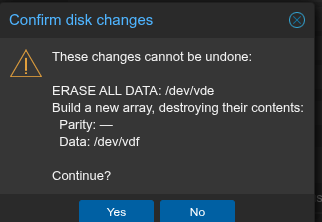
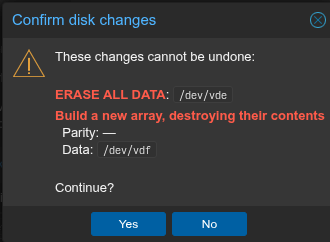
pve-plugin: dress the disk manager in @svnbjrn/design's semantic tokens
The design system's components are Svelte and cannot mount inside
Proxmox's ExtJS dialog, but its token layer travels: the semantic slice
of the generated colors.css (success / error / warning / accent, muted
and strong text, one chip surface) is carried verbatim into a scoped
stylesheet the GUI script injects once.

Scoping is the point. Everything lives under .nonraid-sv, so no token or
rule can reach PVE's own widgets; the parchment surface family is
deliberately left behind, because inside PVE's chrome it would fight the
host theme while the deep semantic colors read correctly on both. Theme
choice probes the page's actual background luminance rather than
trusting a class name - PVE reloads on theme switch, so one probe at
load time is enough.

What it buys, in the operator's terms:

  - device names are mono chips (Iosevka first, platform mono fallback -
    no fonts are embedded into PVE)
  - 'free' is success-green; a held disk is warning-amber; in-use is
    muted
  - a staged action tints its whole row: wipe in error-red, assign in
    accent-teal, unmount in warning-amber - the row answers "what
    happens to this disk when I press Add" at a glance
  - the confirmation's ERASE ALL DATA line carries the error token and
    the disks it names are chips, so the last thing read before erasing
    a disk is also the most legible

Token values are copied from the design system's GENERATED output with a
do-not-hand-edit note pointing back at the DTCG source. README
[…]

diff --git a/pve-plugin/js/pve-nonraid-storage.js b/pve-plugin/js/pve-nonraid-storage.js
@@ -122,6 +122,82 @@
             });
         };
 
+        // ---- @svnbjrn/design tokens, scoped ------------------------------
+        //
+        // Values are copied verbatim from the design system's GENERATED
+        // dist/tokens/colors.css (do not hand-edit them here either - edit the
+        // DTCG source there and re-copy). Only the semantic slice is carried:
+        // inside Proxmox's ExtJS theme the parchment surface family would
+        // fight the host chrome, but the semantic colors (success / error /
+        // warning / accent, muted text) are exactly the vocabulary the disk
+        // funnel needs. Everything is scoped under .nonraid-sv so no token or
+        // rule can leak into PVE's own widgets, and the theme is chosen by
+        // measuring the page rather than trusting a class name: PVE reloads
+        // on theme switch, so a one-shot probe at load time is enough.
+        var injectDesignTokens = function () {
+            if (document.getElementById('nonraid-sv-tokens')) {
+                return;
+            }
+            var dark = true;
+            try {
+                var bg = getComputedStyle(document.body).backgroundColor;
+                var m = bg && bg.match(/\d+/g);
+                if (m && m.length >= 3) {
+                    // Relative luminance, roughly; PVE light is near-white.
+                    dark = (0.299 * m[0] + 0.587 * m[1] + 0.114 * m[2]) < 128;
+                }
+            } catch (ignore) { /* default to dark-first, like the system */ }
+
+            var t = dark ? {
+                success: '#74a55e', error: '#ff5b48', warning: '#ffa500',
+                accent: '#4ec9b0', accent2: '#e06c75',
+                muted: '#9a9a9a', strong: '#f5f5f5',
+                chipBg: '#2d2d2d', chipBorder: '#3c3c3c',
+            } : {
+                success: '#086326', error: '#9d2b20', warning: '#7d4800',
+                accent: '#1f6659', accent2: '#8d3740',
+                muted: '#605b47', strong: '#2a2617',
+                chipBg: '#ece1b8', chipBorder: '#c7ba85',
+            };
+
+            var css = [
+                '.nonraid-sv {',
+                '  --sv-success:' + t.success + '; --sv-error:' + t.error + ';',
+                '  --sv-warning:' + t.warning + '; --sv-accent:' + t.accent + ';',
+                '  --sv-accent-2:' + t.accent2 + '; --sv-text-muted:' + t.muted + ';',
+                '  --sv-text-strong:' + t.strong + '; --sv-surface-3:' + t.chipBg + ';',
+                '  --sv-border:' + t.chipBorder + ';',
+                '}',
+                // Device names: chips in the system's mono voice. Iosevka is
+                // the design system font; fall back through the platform mono
+                // stack rather than embedding fonts into PVE.
+                '.nonraid-sv .nonraid-dev {',
+                '  font-family: Iosevka, ui-monospace, "Cascadia Mono", Menlo, monospace;',
+                '  font-size: 12px; padding: 0 5px; border-radius: 3px;',
+                '  background: var(--sv-surface-3); border: 1px solid var(--sv-border);',
+                '  color: var(--sv-text-strong);',
+                '}',
+                '.nonraid-sv .nonraid-status-free   { color: var(--sv-success); font-weight: 600; }',
+                '.nonraid-sv .nonraid-status-held   { color: var(--sv-warning); }',
+                '.nonraid-sv .nonraid-status-used   { color: var(--sv-text-muted); }',
+                // Staged-action row tints: the row answers "what will happen
+                // to this disk when I press Add" at a glance. Wipe outranks
+                // assign outranks unmount, matching the funnel order.
+                '.nonraid-sv .nonraid-row-wipe    .x-grid-cell { background: color-mix(in srgb, ' + t.error + ' 14%, transparent) !important; }',
+                '.nonraid-sv .nonraid-row-assign  .x-grid-cell { background: color-mix(in srgb, ' + t.accent + ' 14%, transparent) !important; }',
+                '.nonraid-sv .nonraid-row-unmount .x-grid-cell { background: color-mix(in srgb, ' + t.warning + ' 12%, transparent) !important; }',
+                // Confirmation dialog: the danger line carries the error
+                // token; device chips reuse the mono voice.
+                '.nonraid-sv .nonraid-confirm-danger { color: var(--sv-error); font-weight: 700; }',
+                '.nonraid-sv .nonraid-confirm-section { margin: 4px 0; }',
+            ].join('\n');
+
+            var el = document.createElement('style');
+            el.id = 'nonraid-sv-tokens';
+            el.appendChild(document.createTextNode(css));
+            document.head.appendChild(el);
+        };
+
         // Why a disk cannot be unmounted / wiped / assigned, from what
         // /nodes/{node}/disks/list reports. 'used' comes from PVE's own
         // vocabulary: 'mounted', 'LVM', 'ZFS', 'Device Mapper', 'partitions',
@@ -423,20 +499,45 @@
                     ],
                 });
 
+                injectDesignTokens();
+
                 me.columnB = [
                     {
                         xtype: 'grid',
                         name: 'nonraid-disk-manager',
+                        cls: 'nonraid-sv',
                         title: gettext('Disks on the selected node'),
                         store: me.diskStore,
                         height: 230,
                         emptyText: gettext('Select a single node to list its disks'),
-                        viewConfig: { markDirty: false, stripeRows: true },
+                        viewConfig: {
+                            markDirty: false,
+                            stripeRows: true,
+                            // The row tint answers "what happens to this disk
+                            // on Add" at a glance; record.set() refreshes the
+                            // row, so this re-evaluates as actions are staged.
+                            getRowClass: function (rec) {
+                                if (rec.get('doWipe')) {
+                                    return 'nonraid-row-wipe';
+                                }
+                                if (rec.get('role')) {
+                                    return 'nonraid-row-assign';
+                                }
+                                if (rec.get('doUnmount')) {
+                                    return 'nonraid-row-unmount';
+                                }
+                                return '';
+                            },
+                        },
                         columns: [
                             {
                                 text: gettext('Device'),
                                 dataIndex: 'devpath',
                                 flex: 2,
+                                renderer: function (v) {
+                                    return '<span class="nonraid-dev">'
+                                        + Ext.String.htmlEncode(v || '') + '</span>';
+                                },
                             },
                             {
                                 text: gettext('Size'),
@@ -451,6 +552,17 @@
                                 text: gettext('Status'),
                                 dataIndex: 'statusText',
                                 flex: 2,
+                                renderer: function (v, meta, rec) {
+                                    var cls = 'nonraid-status-used';
+                                    if (!rec.get('used') && !(rec.get('osdid') >= 0)) {
+                                        cls = 'nonraid-status-free';
+                                    } else if (rec.get('unmountWhy')
+                                        && /Held by/.test(rec.get('unmountWhy'))) {
+                                        cls = 'nonraid-status-held';
+                                    }
+                                    return '<span class="' + cls + '">'
+                                        + Ext.String.htmlEncode(v || '') + '</span>';
+                                },
                             },
                             {
                                 xtype: 'widgetcolumn',
@@ -629,28 +741,37 @@
             // reads before erasing a disk, and a name that renders as markup
             // is a name they cannot check.
             var devs = function (list) {
-                return Ext.String.htmlEncode(list.join(', '));
+                return list.map(function (d) {
+                    return '<span class="nonraid-dev">' + Ext.String.htmlEncode(d) + '</span>';
+                }).join(' ');
+            };
+            var section = function (html) {
+                return '<div class="nonraid-confirm-section">' + html + '</div>';
             };
             var lines = [];
             if (s.unmount.length) {
-                lines.push(gettext('Unmount') + ': ' + devs(s.unmount));
+                lines.push(section(gettext('Unmount') + ': ' + devs(s.unmount)));
             }
             if (s.wipe.length) {
-                lines.push('<b>' + gettext('ERASE ALL DATA') + '</b>: ' + devs(s.wipe));
+                lines.push(section('<span class="nonraid-confirm-danger">'
+                    + gettext('ERASE ALL DATA') + '</span>: ' + devs(s.wipe)));
             }
             if (s.parity.length || s.data.length) {
-                lines.push('<b>' + gettext('Build a new array, destroying their contents')
-                    + '</b>:<br>&nbsp;&nbsp;' + gettext('Parity') + ': '
+                lines.push(section('<span class="nonraid-confirm-danger">'
+                    + gettext('Build a new array, destroying their contents')
+                    + '</span><br>&nbsp;&nbsp;' + gettext('Parity') + ': '
                     + (s.parity.length ? devs(s.parity) : '—') + '<br>&nbsp;&nbsp;'
-                    + gettext('Data') + ': ' + (s.data.length ? devs(s.data) : '—'));
+                    + gettext('Data') + ': ' + (s.data.length ? devs(s.data) : '—')));
             }
             if (!lines.length) {
                 return submit();
             }
+            injectDesignTokens();
             Ext.Msg.show({
                 title: gettext('Confirm disk changes'),
-                message: gettext('These changes cannot be undone:') + '<br><br>'
-                    + lines.join('<br>') + '<br><br>' + gettext('Continue?'),
+                message: '<div class="nonraid-sv">'
+                    + gettext('These changes cannot be undone:') + '<br><br>'
+                    + lines.join('') + '<br>' + gettext('Continue?') + '</div>',
                 buttons: Ext.Msg.YESNO,
                 icon: Ext.Msg.WARNING,
                 defaultFocus: 'no',

diff --git a/pve-plugin/README.md b/pve-plugin/README.md
@@ -155,6 +155,11 @@ Nothing runs while you click. Pressing **Add** shows one confirmation naming
 every disk in every staged action, and only then does the plugin's hook run
 them in order: unmount, wipe, create.
 
+The dialog's own surfaces (device chips, status colors, staged-row tints, the
+confirmation's danger line) use the semantic color tokens from
+`@svnbjrn/design`, scoped under a `.nonraid-sv` class so nothing bleeds into
+Proxmox's own widgets, with the light/dark set chosen to match the PVE theme.
+
 ![The Add dialog with the disk manager](images/add-dialog-diskmanager.png)
 
 ![The batch confirmation](images/add-dialog-confirm.png)
